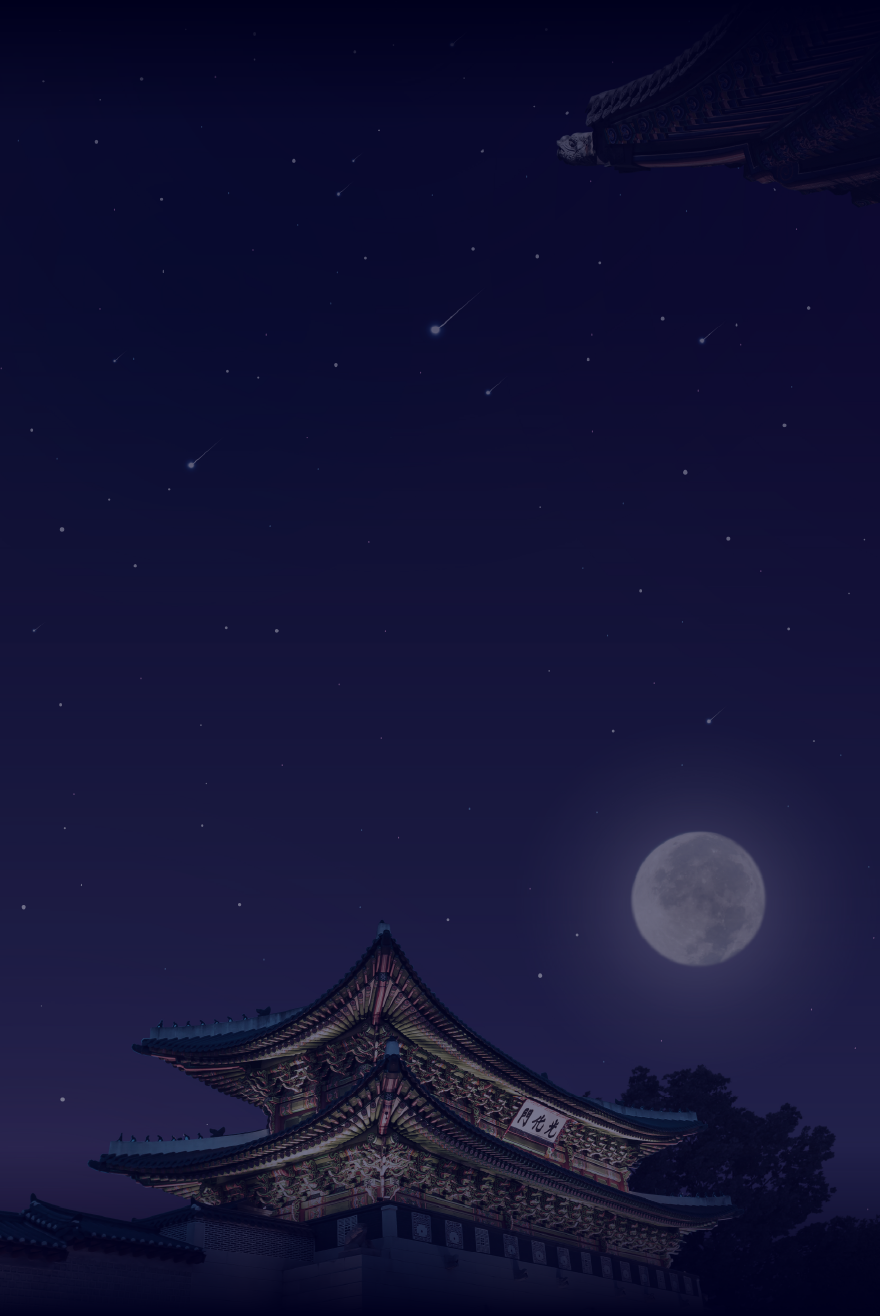
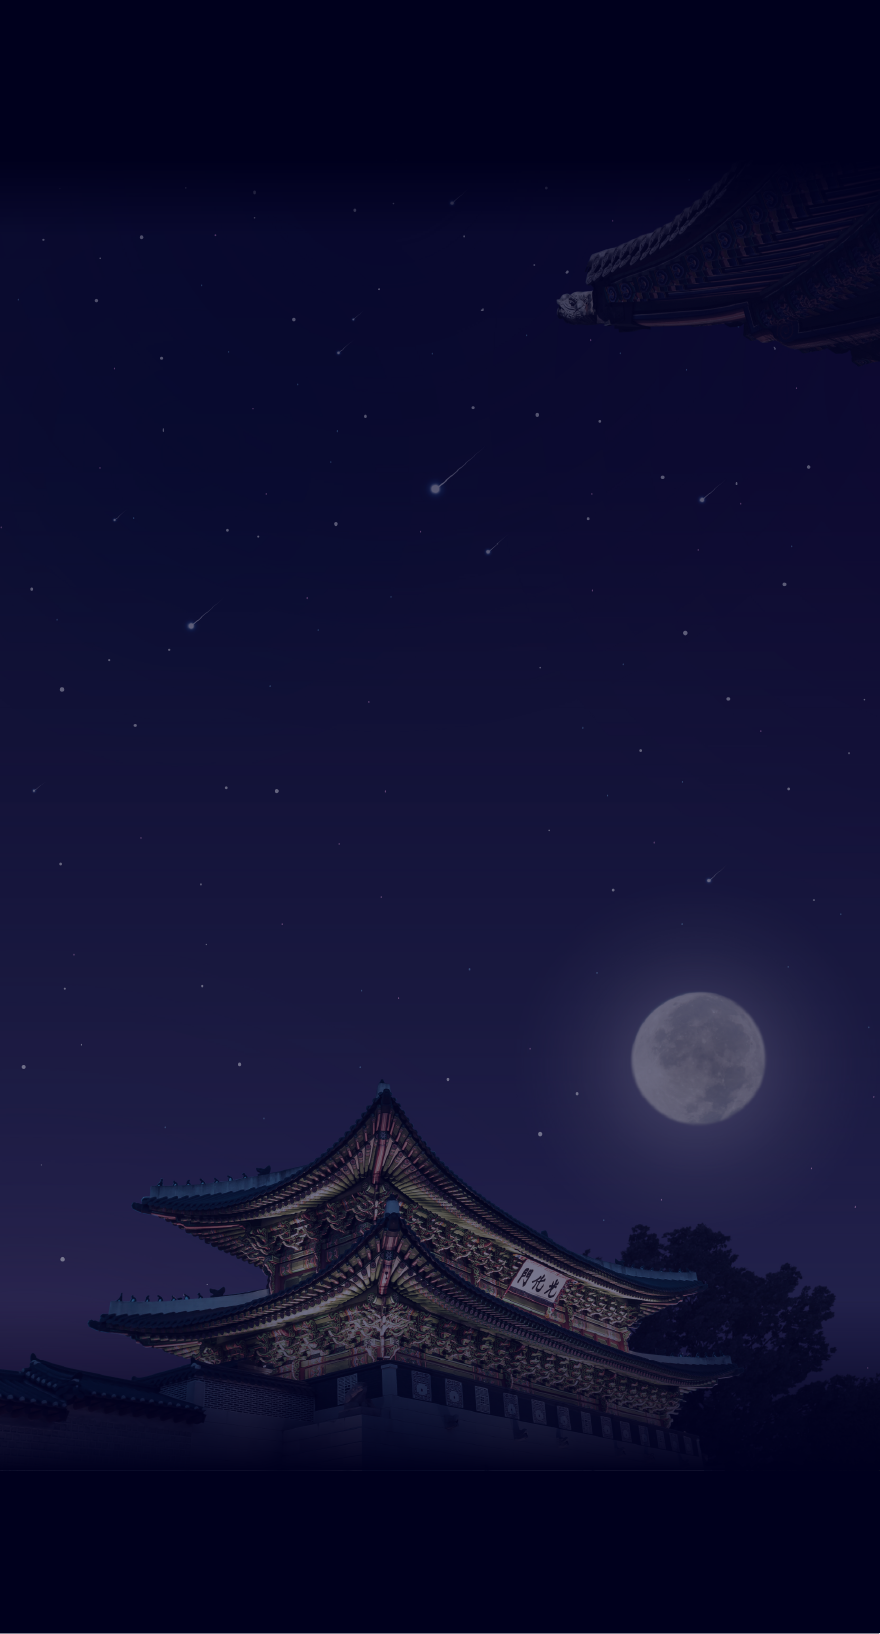
main section1

diff --git a/resources/css/main.css b/resources/css/main.css
@@ -1,0 +1,53 @@
+.main_section1{
+    width: 100%; padding-top: 0em;
+    background-image: url(../img/main-img/main_bgimg.webp);
+    background-position: center; background-repeat: no-repeat;background-size: 100% contain;
+}
+.main_titBox{
+    margin-top: 10%; font-size: 1.3em; padding-top: 8em;
+    color: white; text-align: center; margin-bottom: 15%;
+}
+
+.main_titBox>p{
+    font-size: 1.7em; font-weight: 300; margin-bottom: 5%; position: relative;
+}
+.main_titBox>p>span{display: inline-block; position: relative;}
+.main_titBox>p>span::before{
+    content: "·"; font-weight: 500;
+    position: absolute; left: 50%; top: 0; transform: translateY(-50%) translateX(-50%);
+}
+.main_titBox>h2{font-size: 2.5em; font-weight: 800;}
+.main_titBox>h2 span{
+    background-color: #ddc49b; padding: 0 0.2em; color: black;
+}
+.main_titBox>span{
+    display: inline-block; margin-top: 3%; font-size: 1.5em;
+}
+.main_titBox>span b{color: #ddc49b;}
+
+.main_contentBox{
+    width: 100%; margin: auto; position: relative;
+}
+.main_logoBox{
+    width: 75%; margin: auto; position: relative; margin-bottom: 7%;
+}
+.main_conTxt{
+    position: absolute; top: 50%; left: 50%; width: 100%;
+    transform: translate(-50%,-50%); text-align: center;
+    color: #ddc49b; font-size: 2.5em;
+}
+.main_conTxt>p:nth-child(1){font-size: 2em;}
+.main_conTxt>p:nth-child(2){opacity: 0.8;}
+.main_sajuBtn_box{
+    text-align: center; color: white;
+    margin: auto; font-size: 1.7em; padding-bottom: 5%;
+}
+.main_sajuBtn_box p{
+    font-size: 1.2em; margin-bottom: 0.8em;
+}
+.main_sajuBtn_box span{color: #ddc49b;}
+.main_sajuBtn_box a{
+    color: white; font-size: 1.2em; font-family: 'YeogiOttaeJalnanGothic';
+    margin-top: 3%; display: inline-block; padding: 0.2em 0.7em; padding-top: 0.4em;
+    border-radius: 0.5em; border: 1px solid white; background-color: rgba(255, 255, 255, 0.089);
+}

diff --git a/index.html b/index.html
@@ -5,17 +5,36 @@
     <meta name="viewport" content="width=device-width, initial-scale=1.0">
         <link rel="stylesheet" href="resources/css/font.css" type="text/css">
         <link rel="stylesheet" href="resources/css/mainpage.css" type="text/css">
+        <link rel="stylesheet" href="resources/css/main.css" type="text/css">
     <title>Document</title>
-    <style>
-        body{
-            background-color: #00001d;
-        }
-
-    </style>
 </head>
 <body>
     <header>
     </header>
+    <section class="main_section1">
+        <div class="main_titBox">
+            <p><span>뻔</span>한 운세 서비스에 <span>지</span>친 당신을 위한</p>
+            <h2>운명을 기록하는 <span>가장 특별한 방법</span></h2>
+            <span><b>당신의 삶이 증명해온 궤적</b>을 수치로 확인하세요</span>
+        </div>
+        <div class="main_contentBox">
+            <div class="main_logoBox">
+                <img src="./resources/img/main-img/main_logoBox.webp" alt="">
+                <div class="main_conTxt">
+                    <p class="main_logo_kr">사주로그</p>
+                    <p class="main_logo_en">SAJU LOG</p>
+                </div>
+            </div>
+            <div class="main_sajuBtn_box">
+                <p># 1회 해설 기준</p>
+                <h1>정밀 분석 <span>무료 체험</span></h1>
+                <a href="#"><span>무료 사주</span> 시작하기</a>
+            </div>
+        </div>
+    </section>
+
+
+    <!-- 템플릿.js -->
     <script src="./resources/js/common.js"></script>
 </body>
 </html>

diff --git a/resources/js/mainpage.js b/resources/js/mainpage.js
@@ -1,0 +1,34 @@
+// 1. 헤더 템플릿
+const headerContent = `
+    <div class="header_deco header_deco1"><div></div><div></div></div>
+    <div class="header_box">
+        <div class="header_logo">
+            <a href="/"><img src="./resources/img/logo.png" alt="로고"></a>
+        </div>
+        <div class="header_maenuBox">
+            <div class="header_cashBtn">
+                <a href="#" target="_self"><img src="./resources/img/ui/header_btn.webp" alt="버튼"></a>
+            </div>
+            <div class="header_barBtn">
+                <img src="./resources/img/ui/burger_bar.webp" alt="메뉴">
+            </div>
+        </div>
+    </div>
+    <div class="header_deco header_deco2">
+        <div class="header_deco_obj">
+            <div><img src="./resources/img/ui/header_ob1.webp" alt="장식1"></div>
+            <div><img src="./resources/img/ui/header_ob2.webp" alt="장식2"></div>
+        </div>
+    </div>
+`;
+
+// 2. DOM 로드 후 실행
+window.addEventListener('DOMContentLoaded', () => {
+    const headerElement = document.querySelector('header');
+    
+    // 페이지에 <header> 태그가 존재할 때만 실행
+    if (headerElement) {
+        headerElement.innerHTML = headerContent;
+        console.log("Header loaded successfully!");
+    }
+});

diff --git a/resources/css/mainpage.css b/resources/css/mainpage.css
@@ -19,7 +19,7 @@ img{
 h1{font-family: 'YeogiOttaeJalnanGothic'; font-weight: 100;}
 
 header{
-    width: 100%; position: fixed;
+    width: 100%; max-width: 800px; position: fixed;background-color: #00001d;
     z-index: 1000; left: 50%; top: 0; transform: translateX(-50%);
 }
 .header_deco{width: 100%; position: relative;}
